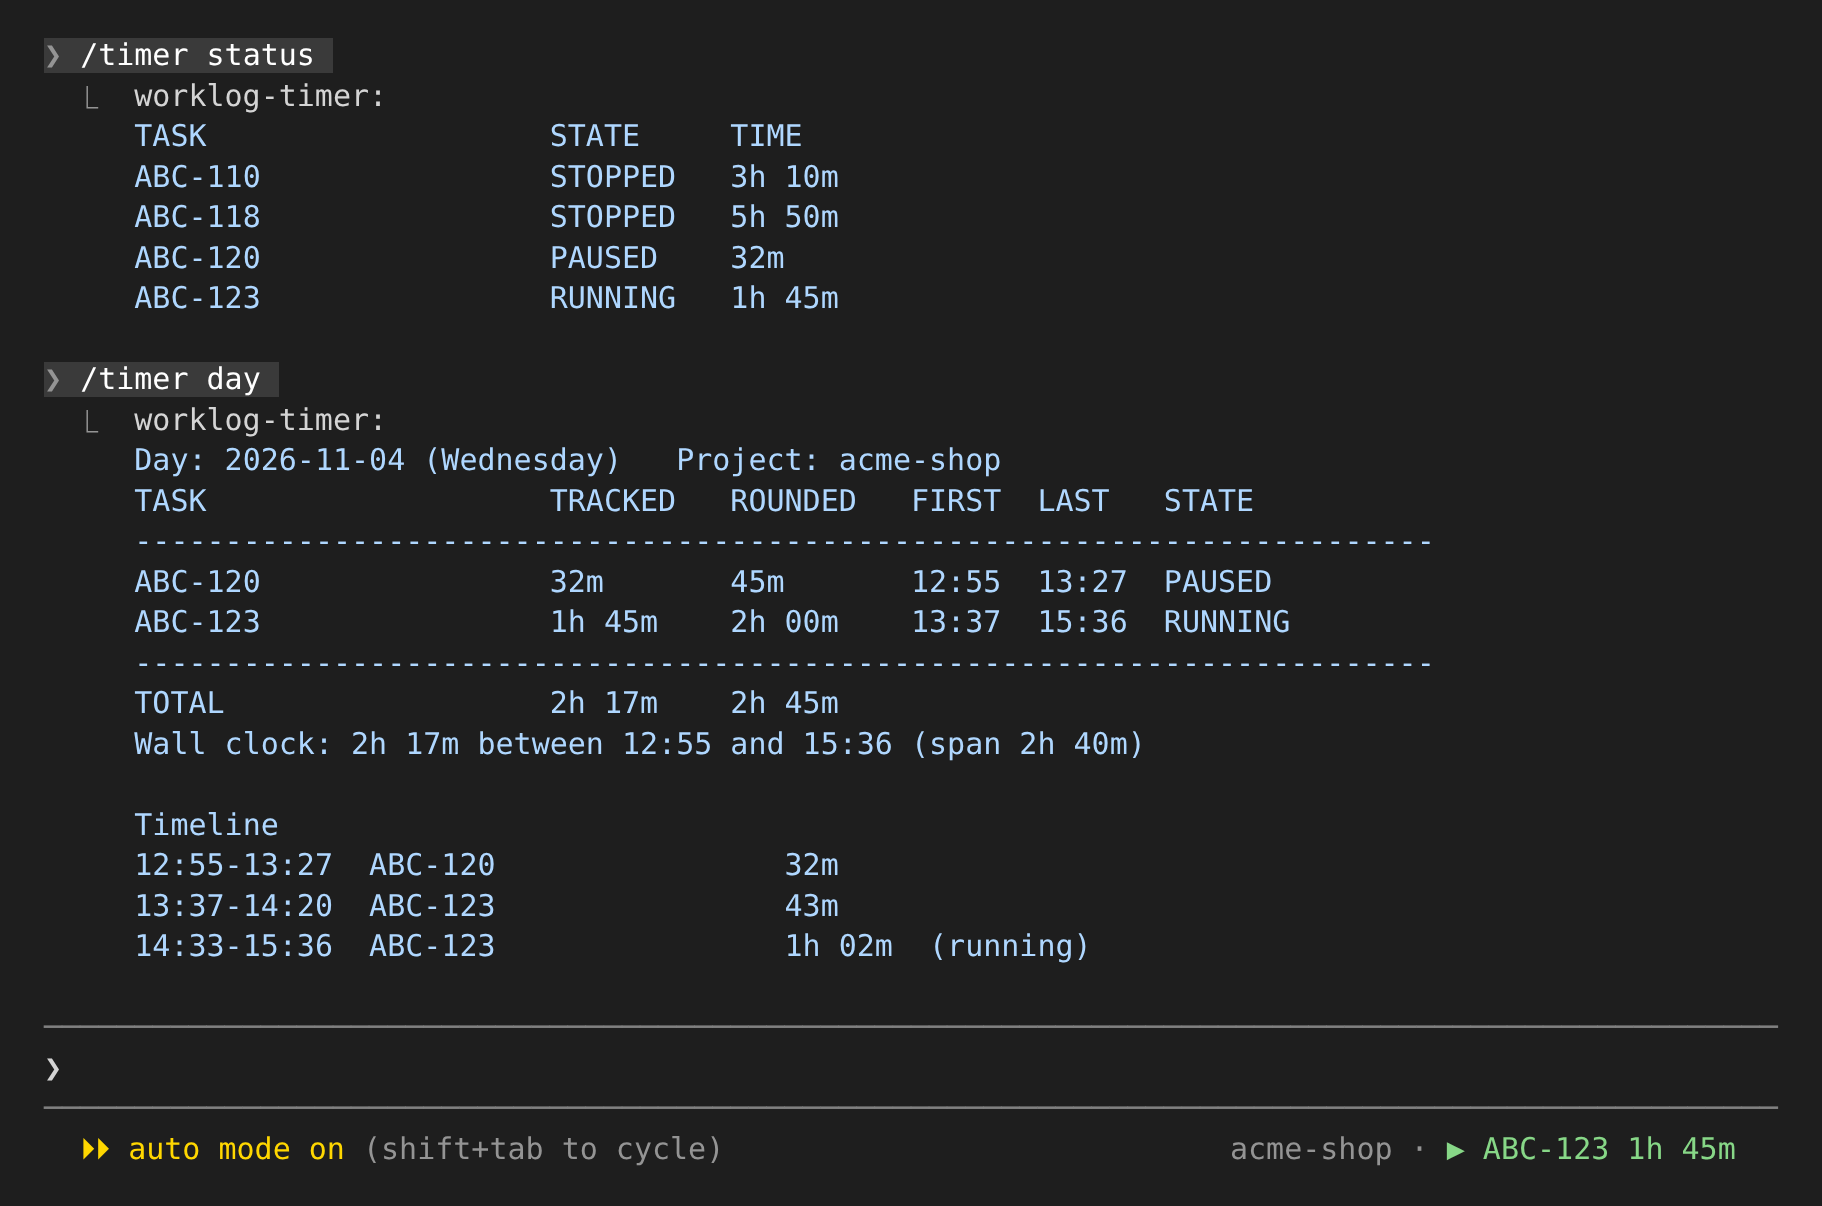
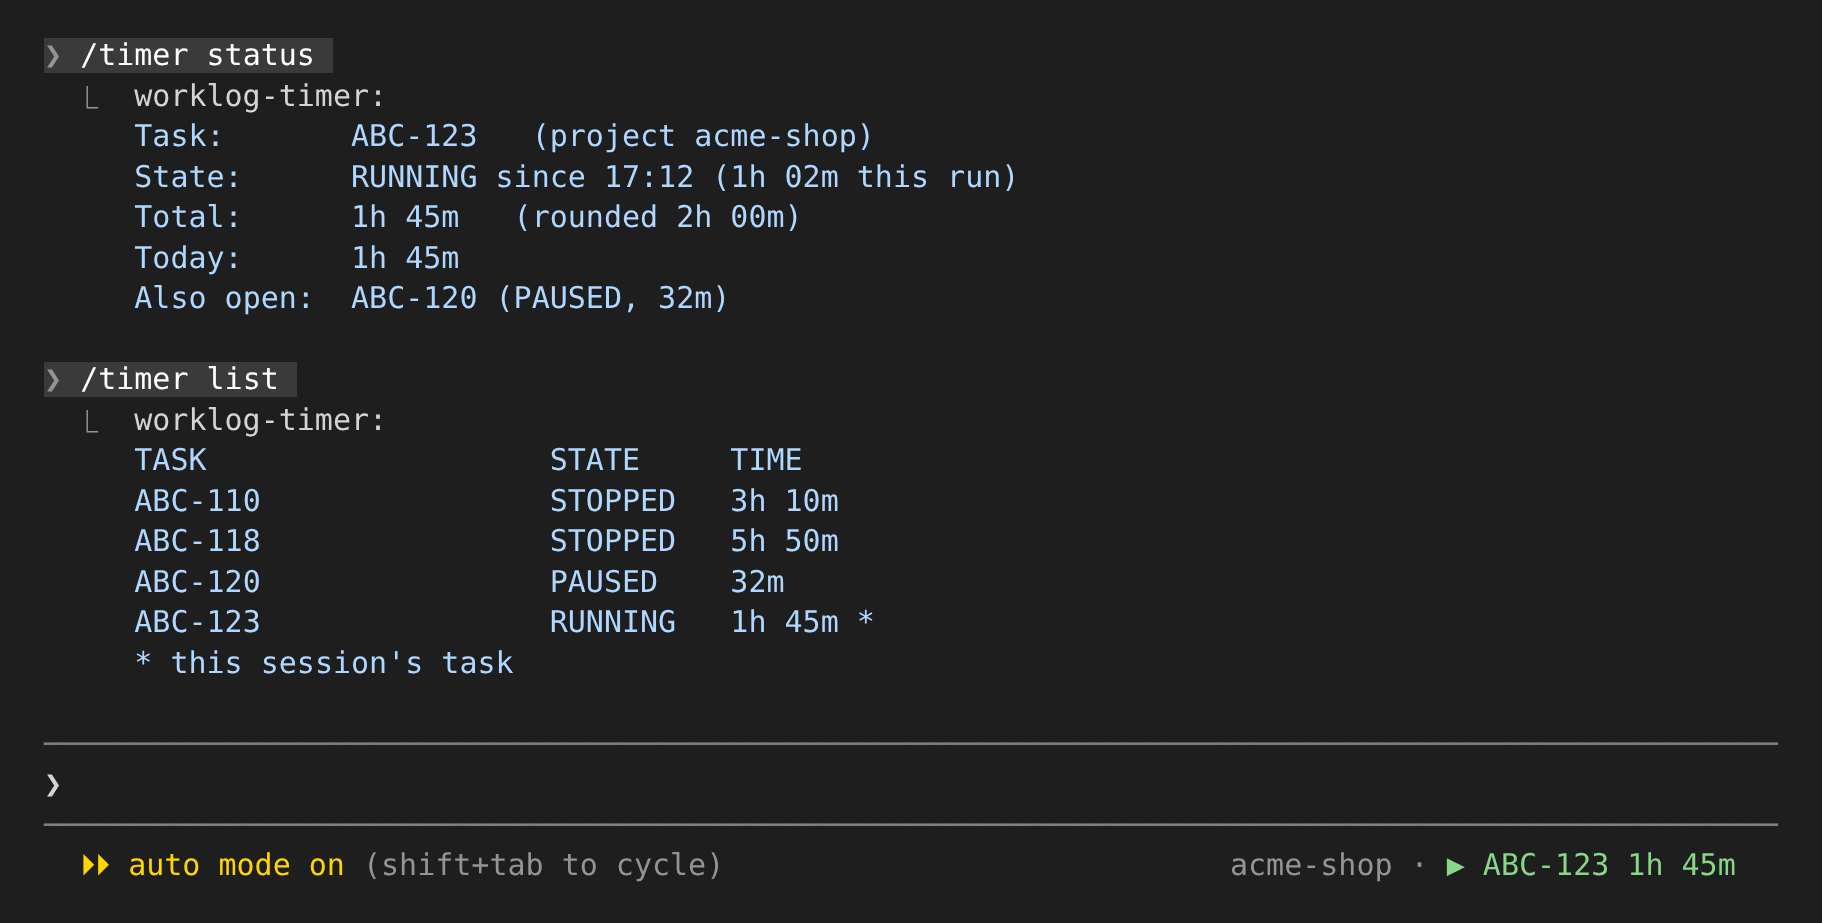
Show the session's task in /timer status and add /timer list with state filters
Claude-Session: https://claude.ai/code/session_01XBMdahkZC9C67ZX4XXCJsE

diff --git a/hooks/register.tsx b/hooks/register.tsx
@@ -266,8 +266,8 @@ export const register: Register = on => {
     try {
       await $.command.register({
         name: 'timer',
-        description: 'Work timer: on, pause, resume, off, status, report, day, month',
-        argumentHint: '[on|pause|resume|off|status|report|day|month] [task,...|--all|DATE]',
+        description: 'Work timer: on, pause, resume, off, status, list, report, day, month',
+        argumentHint: '[on|pause|resume|off|status|list|report|day|month] [task,...|--all|DATE|running|paused|stopped]',
       })
     } catch (err) {
       // Another command already owns /timer; the footer still works.

diff --git a/skills/work-timer/SKILL.md b/skills/work-timer/SKILL.md
@@ -1,7 +1,7 @@
 ---
 name: work-timer
 description: Work timer per task and project. Start, pause, resume and stop timers, show live status, and print day and month reports with quarter-rounded billable time. Use for /timer, or when the user asks to start, stop, pause or check time tracking for a task.
-argument-hint: "<on|pause|resume|off|status|report|day|month> [task,...|--all|DATE|MM-YYYY] [--split]"
+argument-hint: "<on|pause|resume|off|status|list|report|day|month> [task,...|--all|DATE|MM-YYYY|running|paused|stopped|open] [--split]"
 allowed-tools: Bash(timer.sh:*)
 user-invocable: false
 ---
@@ -16,7 +16,7 @@ session can be paused or stopped from another.
 
 $ARGUMENTS - The action and optional task list
 
-Format: `<on|pause|resume|off|status|report|day|month> [task[,task2,...]|--all|date|MM-YYYY] [flags]`
+Format: `<on|pause|resume|off|status|list|report|day|month> [task[,task2,...]|--all|date|MM-YYYY|filter] [flags]`
 
 Examples:
 - `/timer on ABC-123` - Start (or resume) one task
@@ -31,7 +31,9 @@ Examples:
 - `/timer off` - Stop the session's task; otherwise ask which open task
 - `/timer off ABC-123` - Stop one task and report its total
 - `/timer off --all` - Stop everything still open
-- `/timer status` - Live state and elapsed time per task
+- `/timer status` - This session's task: state, since when, total, today, other open tasks
+- `/timer list` - Every task of the project with its state and live total
+- `/timer list running` / `paused` / `stopped` / `open` - Only those states (`open` = running and paused; several may be given)
 - `/timer report` - Table with tracked and quarter-rounded totals
 - `/timer report --split` - Divide overlapping time between concurrent tasks
 - `/timer day` - Full-day report for today: per-task time, wall clock, timeline
@@ -61,7 +63,7 @@ Examples:
    The script picks the log file from the current git repository name, so run it
    from inside the project. Set `TIMER_PROJECT=<name>` to override.
 
-3. Report the script's output back plainly. For `off`, `report`, `day` and `month`,
+3. Report the script's output back plainly. For `off`, `list`, `report`, `day` and `month`,
    show the tables as printed. Do not editorialise; the numbers are the answer.
 
 4. Exit code 2 (`on`, `pause`, `resume` or `off` without a task) means the

diff --git a/README.md b/README.md
@@ -37,7 +37,8 @@ Upgrading from version 0.2, when the plugin was named `timer`: run
 /timer on ABC-1,ABC-2      start several tasks
 /timer pause               pause the session's task
 /timer off                 stop the session's task and print its total
-/timer status              live state and elapsed time per task
+/timer status              this session's task: state, since when, total, today
+/timer list [STATE...]     every task, or only running, paused, stopped or open
 /timer report [--split]    tracked and quarter-rounded totals
 /timer day [DATE] [--all]  one day: per-task time, wall clock, timeline
 /timer month [MM-YYYY]     billable hours per day and per task
@@ -56,7 +57,7 @@ with `All` when there are several:
 
 ![/timer off asking which task to stop](docs/ask.png)
 
-![/timer status and /timer day in a Claude Code session](docs/session.png)
+![/timer status and /timer list in a Claude Code session](docs/session.png)
 
 Overlapping tasks each count the full wall time by default; `--split` divides
 shared time between them. Use the split figures when billing.
@@ -67,7 +68,7 @@ The plugin puts `timer.sh` on the Bash tool's PATH, so your own commands,
 skills and scripts run by Claude can call it directly:
 
 ```
-timer.sh status
+timer.sh list open               running and paused tasks of this project
 timer.sh day yesterday --tsv     machine-readable rows
 timer.sh month 08-2026 --tsv
 timer.sh session-task            the task this session last named
@@ -184,9 +185,9 @@ its own, without touching your real logs:
 ```
 bash tests/sample-data.sh /tmp/timer-sample
 export TIMER_HOME=/tmp/timer-sample TIMER_PROJECT=acme-shop
-bin/timer.sh status        ABC-123 running, ABC-120 paused, two stopped
+bin/timer.sh list          ABC-123 running, ABC-120 paused, two stopped
 bin/timer.sh month         about 11.75 billable hours over 3 days
-claude                     then /timer status, /timer off (asks which task)
+claude                     then /timer list, /timer off (asks which task)
 ```
 
 There is no account or service to sign in to.
